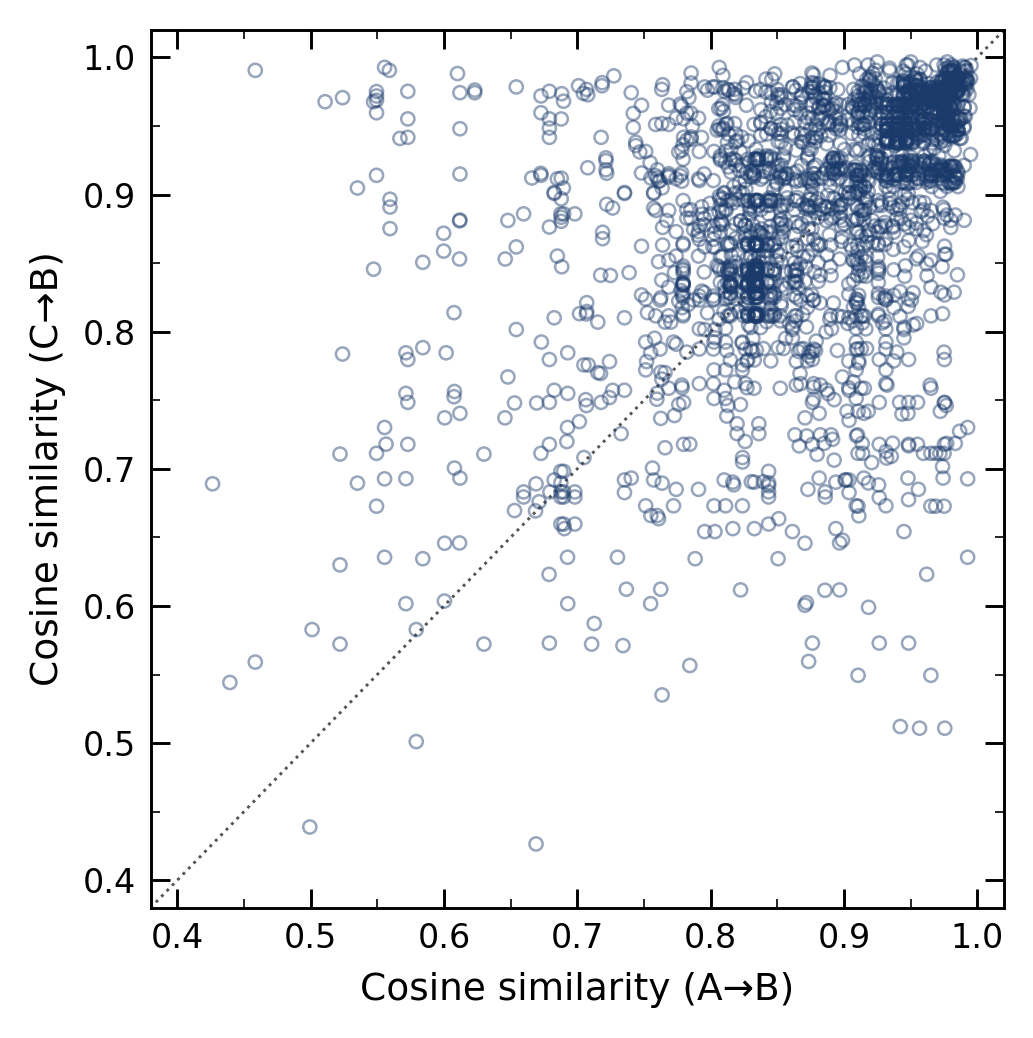
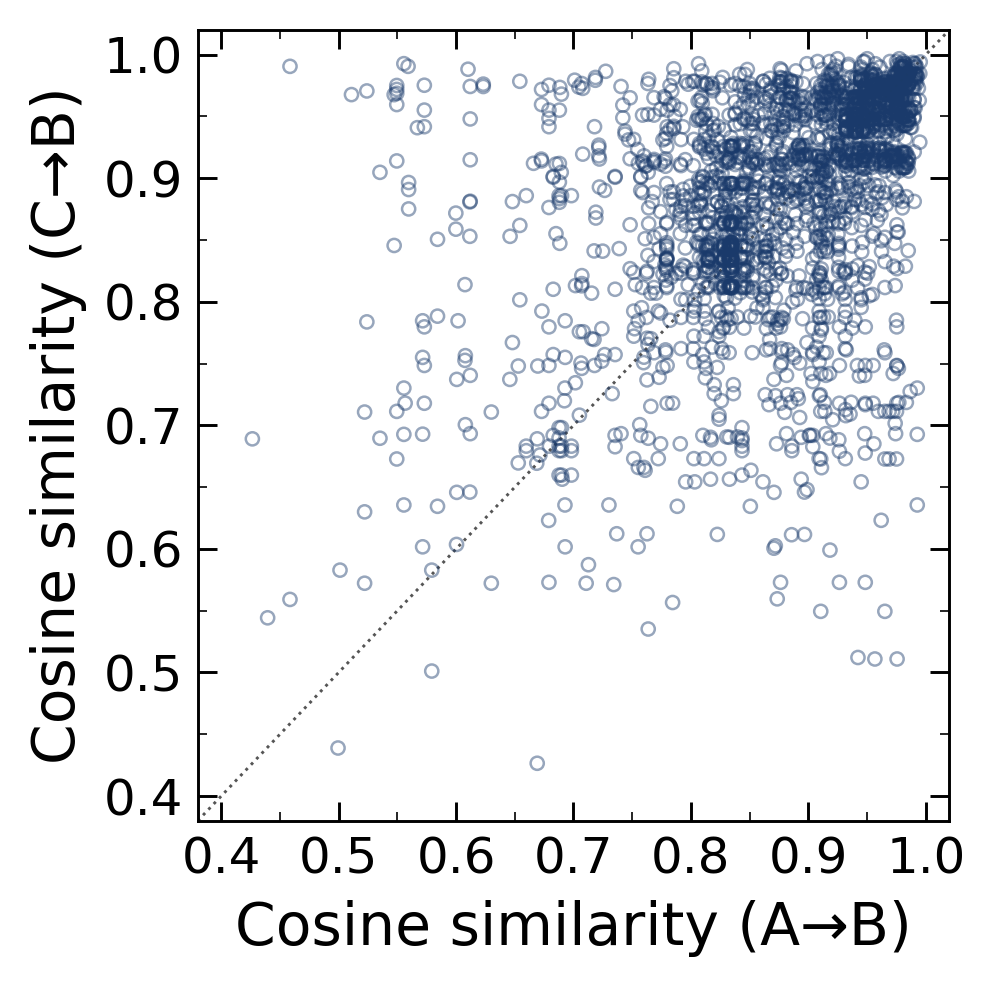
Increase font size (8/9pt -> 12/13/14pt)

diff --git a/plot_triplets.py b/plot_triplets.py
@@ -30,10 +30,10 @@ OUTPUT_DIR = pathlib.Path("/home/sonozuka/network/output")
 RC = {
     "font.family":         "sans-serif",
     "font.sans-serif":     ["Arial", "Helvetica", "DejaVu Sans"],
-    "font.size":           8,
-    "axes.labelsize":      9,
-    "xtick.labelsize":     8,
-    "ytick.labelsize":     8,
+    "font.size":           13,
+    "axes.labelsize":      14,
+    "xtick.labelsize":     12,
+    "ytick.labelsize":     12,
     "axes.linewidth":      0.7,
     "xtick.direction":     "in",
     "ytick.direction":     "in",